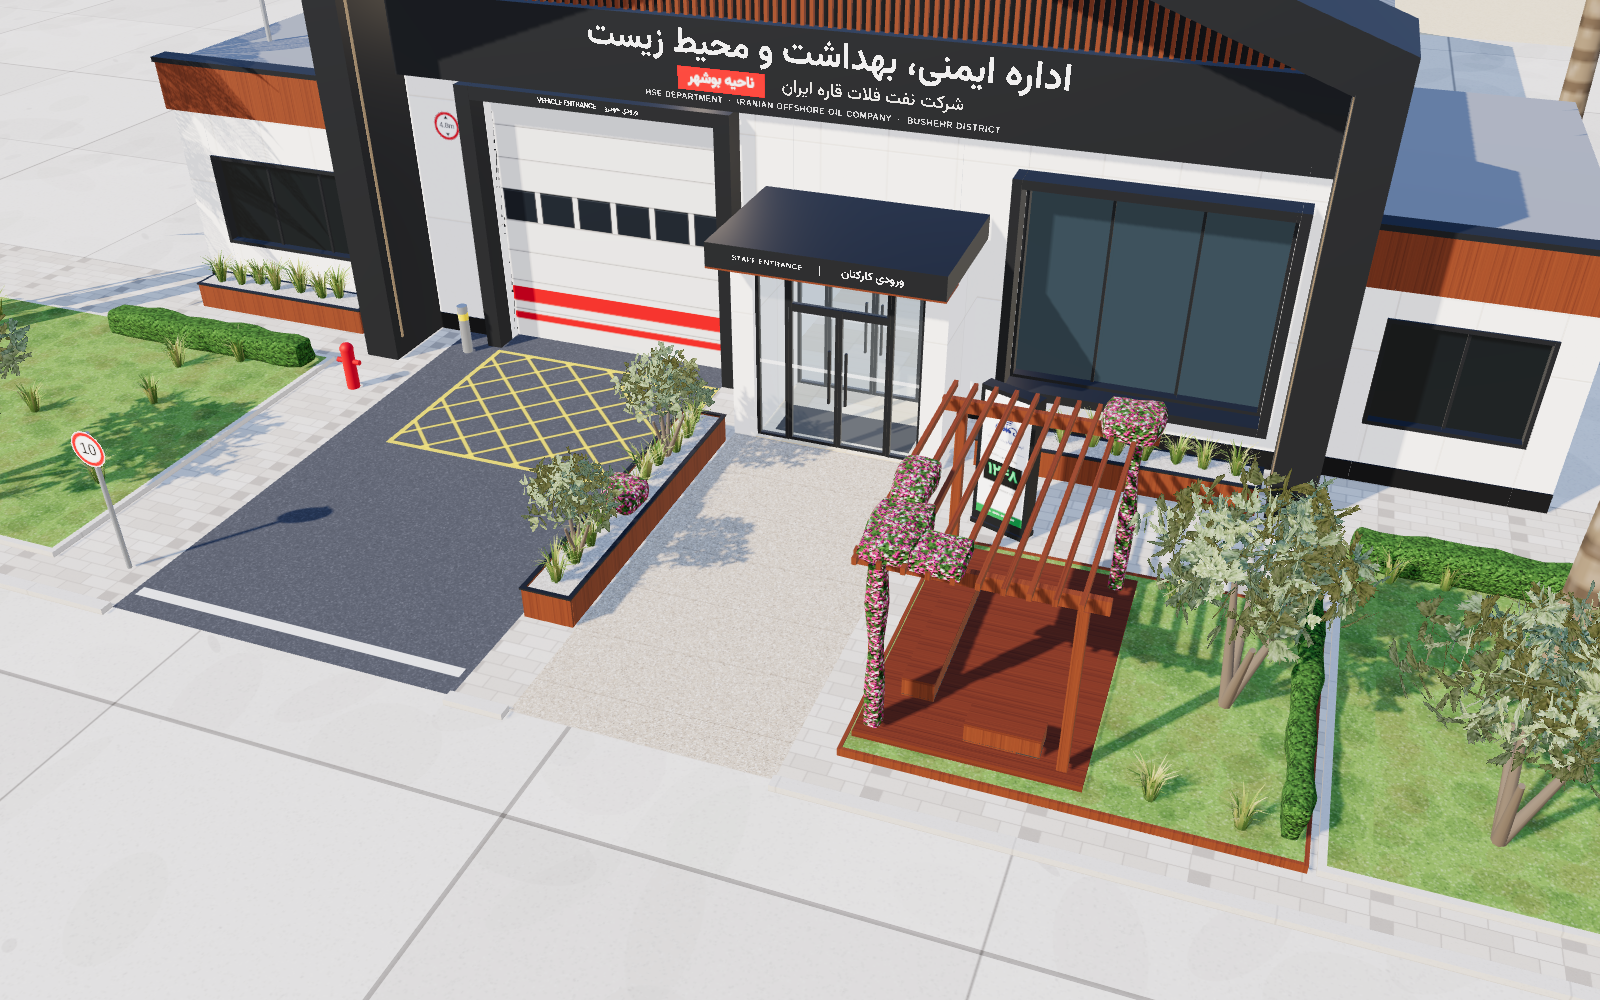
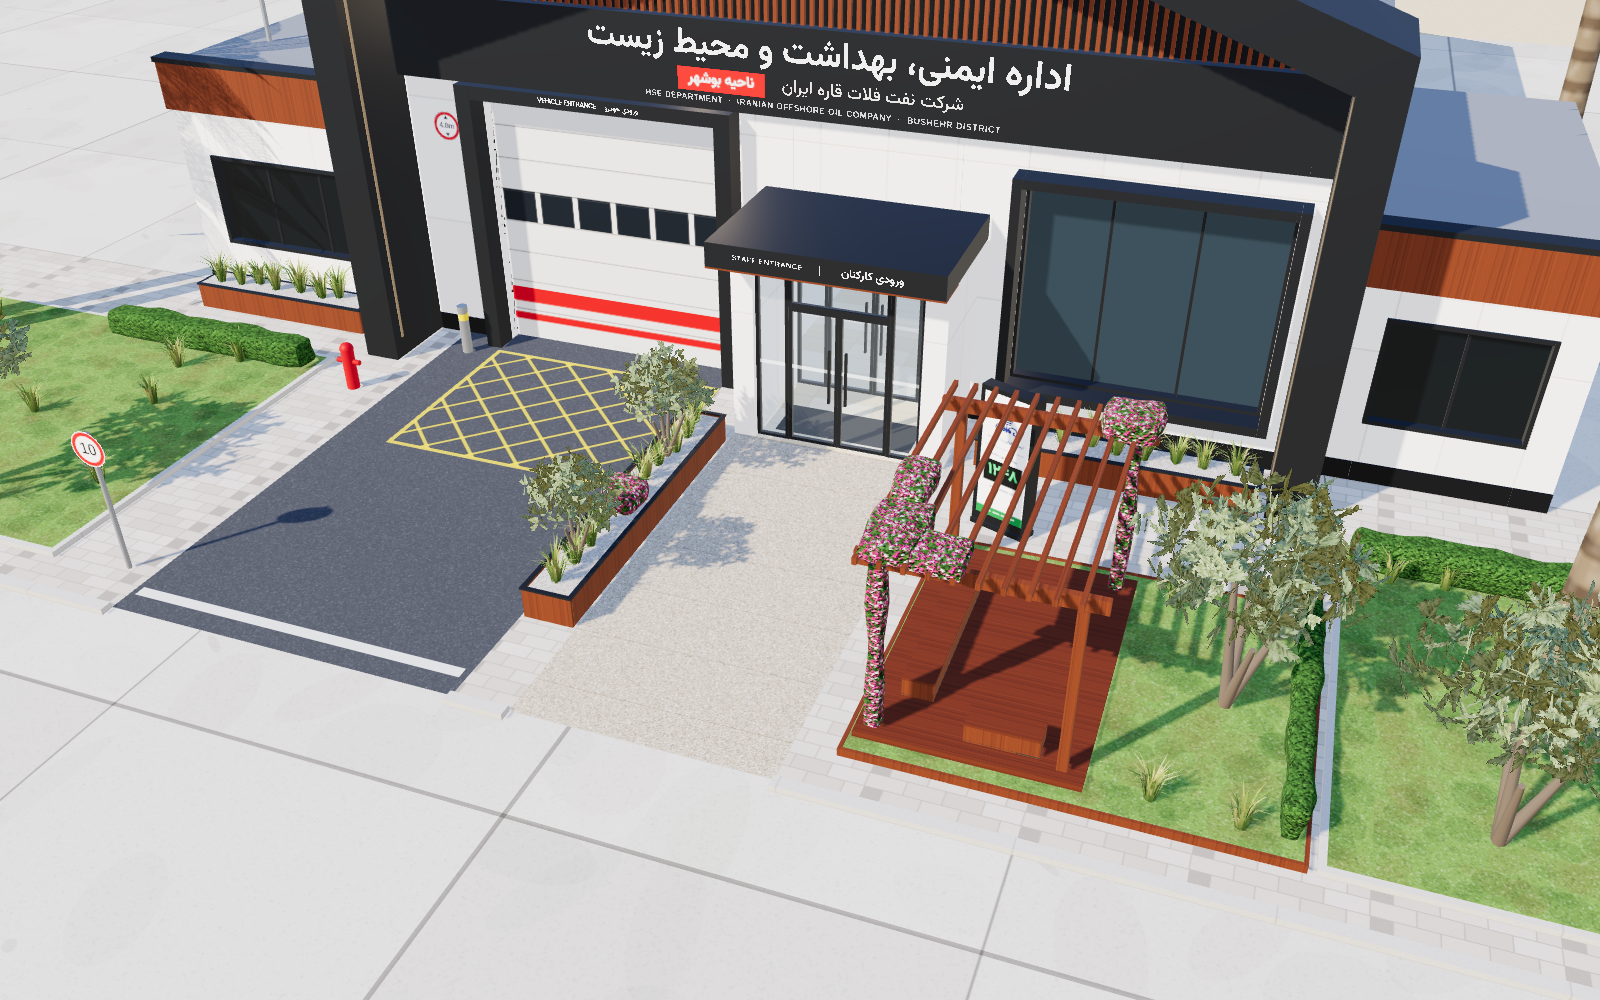
chore: remove floodlight masts from the scene

diff --git a/index.html b/index.html
@@ -580,26 +580,6 @@ function rod(p, a, b, r, mat) {
   const m = new THREE.Mesh(new THREE.CylinderGeometry(r, r, L, 6), mat);
   m.position.copy(a).addScaledVector(d, .5); m.quaternion.setFromUnitVectors(_up, d.normalize()); m.castShadow = true; p.add(m); return m;
 }
-// galvanised triangular lattice floodlight mast head aimed at (tx, tz)
-function latticeMast(p, x, z, h, tx, tz) {
-  const g = new THREE.Group(); g.position.set(x, 0, z); p.add(g);
-  const galv = M(0xaab0b4, .45, .8), legs = [];
-  for (let i = 0; i < 3; i++) { const a = i * 2.094 + .3; legs.push([Math.cos(a), Math.sin(a)]); }
-  const P = (i, y) => { const r = .55 - .3 * y / h; return new THREE.Vector3(legs[i][0] * r, y, legs[i][1] * r); };
-  for (let i = 0; i < 3; i++) rod(g, P(i, 0), P(i, h), .045, galv);
-  for (let y = 0, k = 0; y < h - .5; y += 1.1, k++) for (let i = 0; i < 3; i++) rod(g, P(i, y), P((i + 1) % 3, y + 1.1), .018, galv);
-  B(-.7, .7, h, h + .12, -.7, .7, galv, g);
-  const head = new THREE.Group(); head.position.y = h + .9; head.rotation.y = Math.atan2(tx - x, tz - z); g.add(head);
-  B(-1.3, 1.3, -.05, .05, -.05, .05, galv, head);
-  const lamp = M(0x2b2f34, .5, .5), lens = glowM(0xd8dde0, 0xfff1d6, 0, 3);
-  for (const lx of [-.9, -.3, .3, .9]) for (const ly of [.45, -.45]) {
-    const L = new THREE.Group(); L.position.set(lx, ly, .1); L.rotation.x = .55; head.add(L);
-    B(-.24, .24, -.18, .18, -.1, .12, lamp, L); B(-.2, .2, -.14, .14, .12, .13, lens, L, { cast: false });
-  }
-  halo(head, 0, 0, .4, 0xfff1d6, 4.5, .55);
-  const s = spot(g, 0, h + .6, 0, (tx - x) * .9, 0, (tz - z) * .9, { i: 3.2, dist: 55, angle: .75, pen: .6, color: 0xfff1d6, halo: false });
-  return g;
-}
 function container(p, x, z, ry, color, y = 0, len = 6.06) {
   const g = new THREE.Group(); g.position.set(x, y, z); g.rotation.y = ry; p.add(g);
   B(-1.22, 1.22, 0, 2.59, -len / 2, len / 2, M(color, .7, .25, { map: TX.corr }), g, { cast: false });
@@ -625,9 +605,7 @@ function buildContext() {
   // a few generic trees around the yard edge
   for (const [x, z] of [[-40, 44], [-26, 45], [26, 45], [40, 44], [-42, 20], [42, 22], [-42, -6], [42, -8]]) oliveTree(C, x + rr(-1, 1), z + rr(-1, 1), rr(1.2, 1.5));
   for (const [x, z] of [[-34, 40], [34, 41], [-41, 32], [41, 34]]) palm(x, z, rr(8, 10.5), rr(-.06, .06), rr(0, 6), C);
-  // floodlight masts flanking the facade, vehicles in the yard
-  latticeMast(C, -24.5, 12.5, 15, -6, 26);
-  latticeMast(C, 12.4, 12.8, 15, -2, 26);
+  // vehicles in the yard
   buildTruck(C, -14.2, 17.5, Math.PI);
   ambulance(C, 19, 21, -1.2);
 }
@@ -1292,7 +1270,7 @@ const INFO = {
     feat: ['Folded frame with LED line gives a strong night silhouette.', 'Rooftop PV array: the Environment in HSE, made visible.', 'White sectional door with red bands recalls the original roller door.', '2 m staff hallway in white panels with a timber soffit.', 'Garden: exposed-aggregate concrete walkway; lawn and timber deck under a pergola with bougainvillea, benches and a shade olive.'],
   },
 };
-const COMMON = ['2 m staff hallway (airlock vestibule) projecting into the pavement: shade, wind and dust lobby', 'Walkway and driveway separated by a 0.5 m raised planter instead of steel bollards (UK HSE HSG136); low planting at the drive exit keeps sight lines clear', 'Small paved area only: new walkway paving about 3.8 × 8 m plus a pocket garden; the asphalt in front of the car gate stays', 'Internal-site traffic: 10 km/h limit, stop line and keep-clear box in front of the car gate', 'Clearance height sign at the vehicle gate', 'Assembly point (ISO 7010 E007) in the open yard', 'Windsock: wind direction for H₂S/gas release', '"Days without lost-time injury" board at the entrance', 'Fire hydrant, floodlight masts and good night lighting'];
+const COMMON = ['2 m staff hallway (airlock vestibule) projecting into the pavement: shade, wind and dust lobby', 'Walkway and driveway separated by a 0.5 m raised planter instead of steel bollards (UK HSE HSG136); low planting at the drive exit keeps sight lines clear', 'Small paved area only: new walkway paving about 3.8 × 8 m plus a pocket garden; the asphalt in front of the car gate stays', 'Internal-site traffic: 10 km/h limit, stop line and keep-clear box in front of the car gate', 'Clearance height sign at the vehicle gate', 'Assembly point (ISO 7010 E007) in the open yard', 'Windsock: wind direction for H₂S/gas release', '"Days without lost-time injury" board at the entrance', 'Fire hydrant and good night lighting'];
 let cur = null, gateGoal = 0, gateT = 0, spin = false;
 function showDesign(k) {
   k = (k || 'A').toUpperCase(); if (!DESIGNS[k]) k = 'A'; cur = k;

diff --git a/src/js/03b-context.js b/src/js/03b-context.js
@@ -21,26 +21,6 @@ function rod(p, a, b, r, mat) {
   const m = new THREE.Mesh(new THREE.CylinderGeometry(r, r, L, 6), mat);
   m.position.copy(a).addScaledVector(d, .5); m.quaternion.setFromUnitVectors(_up, d.normalize()); m.castShadow = true; p.add(m); return m;
 }
-// galvanised triangular lattice floodlight mast head aimed at (tx, tz)
-function latticeMast(p, x, z, h, tx, tz) {
-  const g = new THREE.Group(); g.position.set(x, 0, z); p.add(g);
-  const galv = M(0xaab0b4, .45, .8), legs = [];
-  for (let i = 0; i < 3; i++) { const a = i * 2.094 + .3; legs.push([Math.cos(a), Math.sin(a)]); }
-  const P = (i, y) => { const r = .55 - .3 * y / h; return new THREE.Vector3(legs[i][0] * r, y, legs[i][1] * r); };
-  for (let i = 0; i < 3; i++) rod(g, P(i, 0), P(i, h), .045, galv);
-  for (let y = 0, k = 0; y < h - .5; y += 1.1, k++) for (let i = 0; i < 3; i++) rod(g, P(i, y), P((i + 1) % 3, y + 1.1), .018, galv);
-  B(-.7, .7, h, h + .12, -.7, .7, galv, g);
-  const head = new THREE.Group(); head.position.y = h + .9; head.rotation.y = Math.atan2(tx - x, tz - z); g.add(head);
-  B(-1.3, 1.3, -.05, .05, -.05, .05, galv, head);
-  const lamp = M(0x2b2f34, .5, .5), lens = glowM(0xd8dde0, 0xfff1d6, 0, 3);
-  for (const lx of [-.9, -.3, .3, .9]) for (const ly of [.45, -.45]) {
-    const L = new THREE.Group(); L.position.set(lx, ly, .1); L.rotation.x = .55; head.add(L);
-    B(-.24, .24, -.18, .18, -.1, .12, lamp, L); B(-.2, .2, -.14, .14, .12, .13, lens, L, { cast: false });
-  }
-  halo(head, 0, 0, .4, 0xfff1d6, 4.5, .55);
-  const s = spot(g, 0, h + .6, 0, (tx - x) * .9, 0, (tz - z) * .9, { i: 3.2, dist: 55, angle: .75, pen: .6, color: 0xfff1d6, halo: false });
-  return g;
-}
 function container(p, x, z, ry, color, y = 0, len = 6.06) {
   const g = new THREE.Group(); g.position.set(x, y, z); g.rotation.y = ry; p.add(g);
   B(-1.22, 1.22, 0, 2.59, -len / 2, len / 2, M(color, .7, .25, { map: TX.corr }), g, { cast: false });
@@ -66,9 +46,7 @@ function buildContext() {
   // a few generic trees around the yard edge
   for (const [x, z] of [[-40, 44], [-26, 45], [26, 45], [40, 44], [-42, 20], [42, 22], [-42, -6], [42, -8]]) oliveTree(C, x + rr(-1, 1), z + rr(-1, 1), rr(1.2, 1.5));
   for (const [x, z] of [[-34, 40], [34, 41], [-41, 32], [41, 34]]) palm(x, z, rr(8, 10.5), rr(-.06, .06), rr(0, 6), C);
-  // floodlight masts flanking the facade, vehicles in the yard
-  latticeMast(C, -24.5, 12.5, 15, -6, 26);
-  latticeMast(C, 12.4, 12.8, 15, -2, 26);
+  // vehicles in the yard
   buildTruck(C, -14.2, 17.5, Math.PI);
   ambulance(C, 19, 21, -1.2);
 }

diff --git a/src/js/08-ui.js b/src/js/08-ui.js
@@ -19,7 +19,7 @@ const INFO = {
     feat: ['Folded frame with LED line gives a strong night silhouette.', 'Rooftop PV array: the Environment in HSE, made visible.', 'White sectional door with red bands recalls the original roller door.', '2 m staff hallway in white panels with a timber soffit.', 'Garden: exposed-aggregate concrete walkway; lawn and timber deck under a pergola with bougainvillea, benches and a shade olive.'],
   },
 };
-const COMMON = ['2 m staff hallway (airlock vestibule) projecting into the pavement: shade, wind and dust lobby', 'Walkway and driveway separated by a 0.5 m raised planter instead of steel bollards (UK HSE HSG136); low planting at the drive exit keeps sight lines clear', 'Small paved area only: new walkway paving about 3.8 × 8 m plus a pocket garden; the asphalt in front of the car gate stays', 'Internal-site traffic: 10 km/h limit, stop line and keep-clear box in front of the car gate', 'Clearance height sign at the vehicle gate', 'Assembly point (ISO 7010 E007) in the open yard', 'Windsock: wind direction for H₂S/gas release', '"Days without lost-time injury" board at the entrance', 'Fire hydrant, floodlight masts and good night lighting'];
+const COMMON = ['2 m staff hallway (airlock vestibule) projecting into the pavement: shade, wind and dust lobby', 'Walkway and driveway separated by a 0.5 m raised planter instead of steel bollards (UK HSE HSG136); low planting at the drive exit keeps sight lines clear', 'Small paved area only: new walkway paving about 3.8 × 8 m plus a pocket garden; the asphalt in front of the car gate stays', 'Internal-site traffic: 10 km/h limit, stop line and keep-clear box in front of the car gate', 'Clearance height sign at the vehicle gate', 'Assembly point (ISO 7010 E007) in the open yard', 'Windsock: wind direction for H₂S/gas release', '"Days without lost-time injury" board at the entrance', 'Fire hydrant and good night lighting'];
 let cur = null, gateGoal = 0, gateT = 0, spin = false;
 function showDesign(k) {
   k = (k || 'A').toUpperCase(); if (!DESIGNS[k]) k = 'A'; cur = k;
